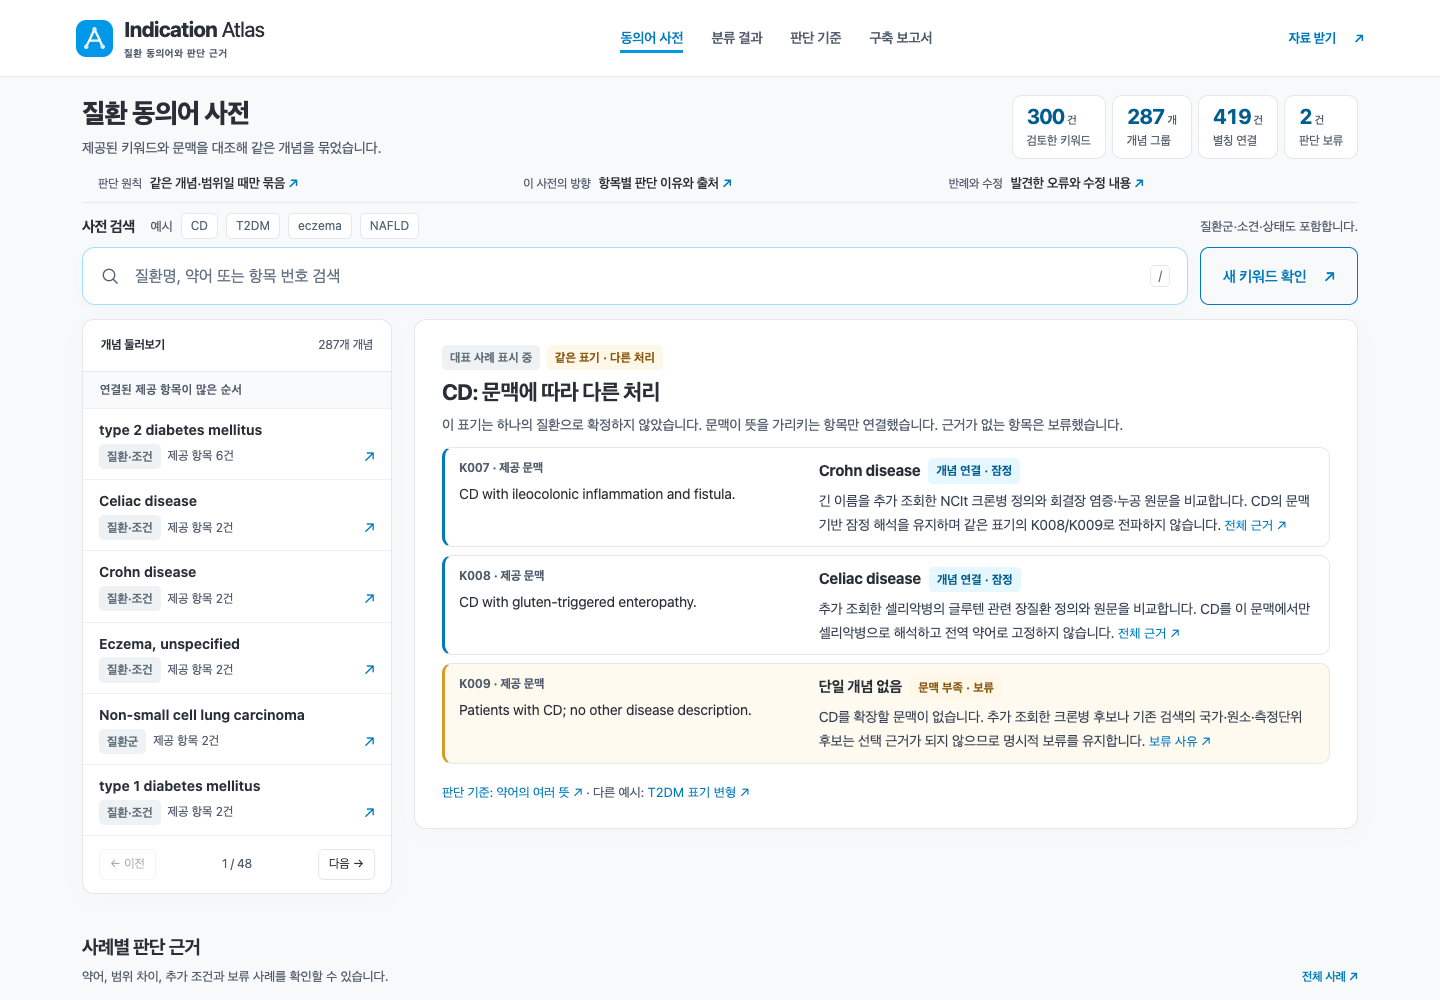
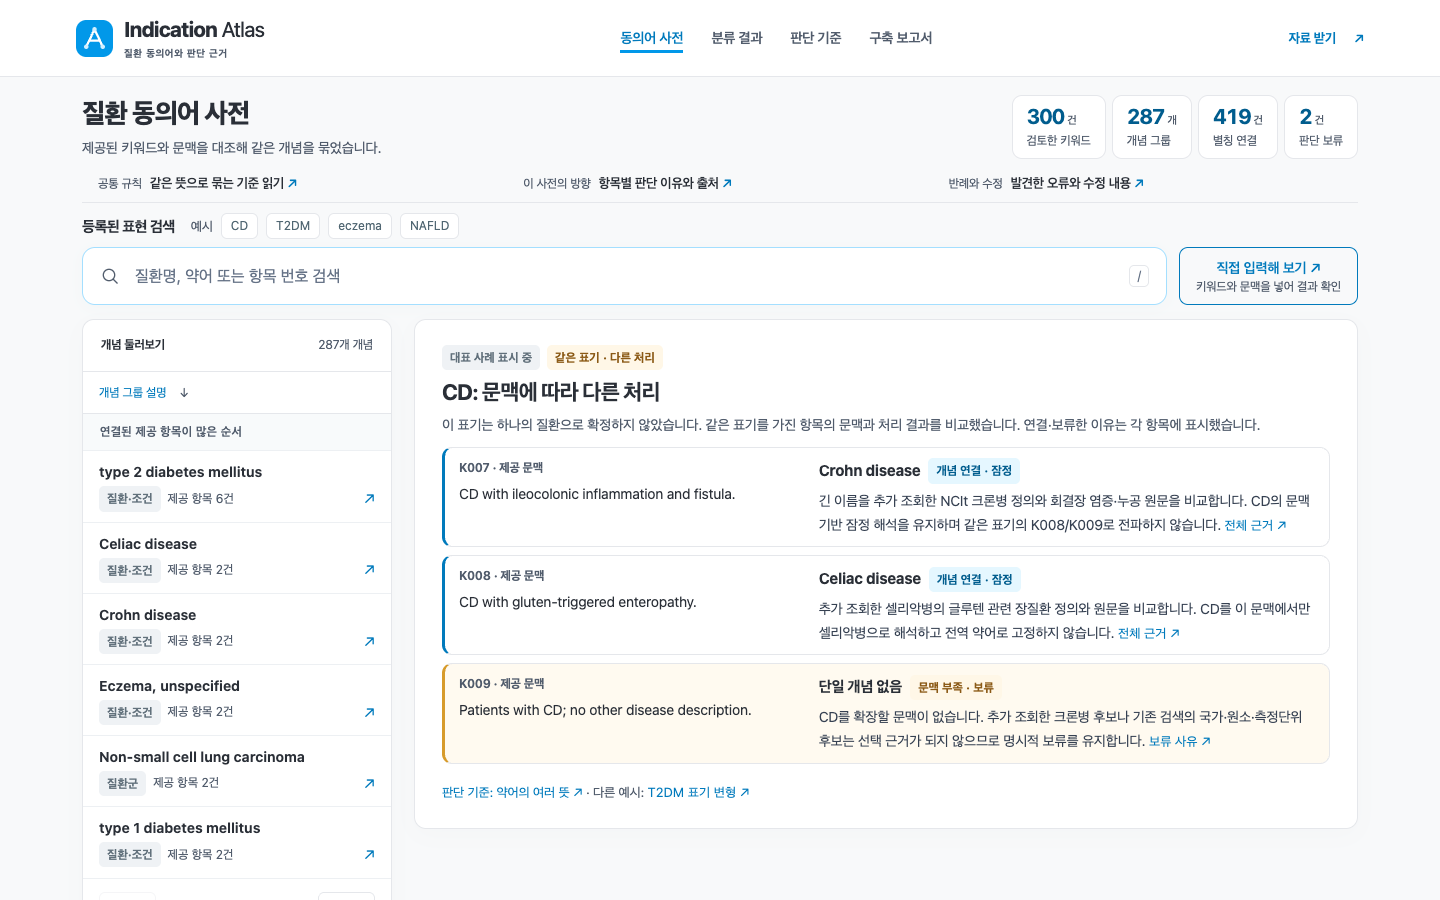
Explain home search, direct input and judgment examples

diff --git a/app/app.js b/app/app.js
@@ -104,14 +104,14 @@ function dictionaryPage() {
     <section class="home-head" aria-labelledby="hero-title"><div class="home-title"><h1 id="hero-title">질환 동의어 사전</h1><p>제공된 키워드와 문맥을 대조해 같은 개념을 묶었습니다.</p></div>
     <div class="stats" aria-label="사전 요약">${[['검토한 키워드',m.records,'건','#records','전체 분류 결과'],['개념 그룹',m.concepts,'개','#dictionary?view=concepts','개념 목록'],['별칭 연결',m.aliases,'건','#aliases','별칭 목록'],['판단 보류',m.holds,'건','#records?decision=HOLD','보류 사유 확인']].map(([label,n,u,href,action])=>`<a class="stat" href="${href}"${href.includes('view=concepts')?' data-concept-list':''} aria-label="${label} ${n}${u} · ${action}"><span class="stat-value">${n}<small>${u}</small></span><span class="stat-label">${label}</span></a>`).join('')}</div></section>
     <section class="key-points" aria-label="핵심 포인트">${[
-      ['판단 원칙','같은 개념·범위일 때만 묶음','#cases'],
+      ['공통 규칙','같은 뜻으로 묶는 기준 읽기','#cases'],
       ['이 사전의 방향','항목별 판단 이유와 출처','#materials/methodology'],
       ['반례와 수정','발견한 오류와 수정 내용','#materials/methodology?section=counterexamples']
     ].map(([label,title,href])=>`<a class="key-point" href="${href}"><span>${label}</span><strong>${title} <span aria-hidden="true">↗</span></strong></a>`).join('')}</section>
-    <section id="concept-explorer" aria-labelledby="search-heading"><div class="search-heading-row"><h2 id="search-heading" tabindex="-1">사전 검색</h2><div class="examples"><span>예시</span>${['CD','T2DM','eczema','NAFLD'].map(q=>`<button class="example-chip" data-query="${q}">${q}</button>`).join('')}<span class="scope-note">질환군·소견·상태도 포함합니다.</span></div></div>
-    <div class="search-toolbar"><label class="search-box">${icon}<input id="dictionary-search" type="search" autocomplete="off" aria-label="질환명·약어·항목 번호 검색" placeholder="질환명, 약어 또는 항목 번호 검색"><span class="search-key" aria-hidden="true">/</span></label><a class="new-keyword-link" href="#analyze">새 키워드 확인 <span aria-hidden="true">↗</span></a></div>
+    <section id="concept-explorer" aria-labelledby="search-heading"><div class="search-heading-row"><h2 id="search-heading" tabindex="-1">등록된 표현 검색</h2><div class="examples"><span>예시</span>${['CD','T2DM','eczema','NAFLD'].map(q=>`<button class="example-chip" data-query="${q}">${q}</button>`).join('')}</div></div>
+    <div class="search-toolbar"><label class="search-box">${icon}<input id="dictionary-search" type="search" autocomplete="off" aria-label="질환명·약어·항목 번호 검색" placeholder="질환명, 약어 또는 항목 번호 검색"><span class="search-key" aria-hidden="true">/</span></label><a class="new-keyword-link" href="#analyze" aria-label="직접 입력해 보기" aria-describedby="new-input-description"><span class="new-keyword-title">직접 입력해 보기 <span aria-hidden="true">↗</span></span><span class="new-keyword-description" id="new-input-description">키워드와 문맥을 넣어 결과 확인</span></a></div>
     <div class="explorer"><div id="results" class="panel result-panel"></div><div id="dictionary-detail" class="panel detail"></div></div></section>
-    <section class="featured-section"><div class="section-heading"><div><h2>사례별 판단 근거</h2><p>약어, 범위 차이, 추가 조건과 보류 사례를 확인할 수 있습니다.</p></div><a href="#cases/examples">전체 사례 ↗</a></div><div class="featured-grid">${featureCards(['cd','eczema','nsclc','masld','conflict'].map(id=>data.stories.find(s=>s.id===id)))}</div></section>
+    <section class="featured-section"><div class="section-heading"><div><h2>사례로 보는 분류 과정</h2><p>공통 규칙을 약어, 범위 차이, 추가 조건과 입력 충돌에 적용한 사례입니다.</p></div><a href="#cases/examples">전체 사례 ↗</a></div><div class="featured-grid">${featureCards(['cd','eczema','nsclc','masld','conflict'].map(id=>data.stories.find(s=>s.id===id)))}</div></section>
   </div>`;
   const input=$('#dictionary-search'); input.value=route.params.get('q') ?? '';
   selectedKey=route.params.get('concept'); searchPage=0;
@@ -153,6 +153,7 @@ function updateSearch({autoSelect=true}={}) {
   }).join('');
   $('#results').classList.toggle('has-selection',!!selectedKey);
   $('#results').innerHTML=`<div class="result-heading"><b>${normalize(q)?'검색 결과':'개념 둘러보기'}</b><span>${keys.length}개 개념</span></div>
+    ${!normalize(q)?'<details class="catalog-scope"><summary>개념 그룹 설명</summary><p>같은 뜻으로 판단한 표현을 하나의 그룹으로 묶었습니다. 질환뿐 아니라 질환군·소견·상태도 포함합니다.</p></details>':''}
     ${result.exactKeys.length>1?`<div class="hold-result"><b>문맥 확인이 필요합니다.</b><br>같은 표기가 ${result.exactKeys.length}개 개념에 연결됩니다.</div>`:''}
     ${items || (result.holds.length || result.expressions.length ? '<div class="empty-state">해당 항목은 단일 개념으로 연결하지 않았습니다.<br>아래에서 원문과 처리 이유를 확인하세요.</div>' : '<div class="empty-state">등록된 이름을 찾지 못했습니다.<br>긴 질환명이나 다른 표기로 검색해 보세요.</div>')}
     ${[...result.holds,...result.expressions].map(r=>`<div class="hold-result">${decisionBadge(r)}<p>${esc(r.source_id)} · ${esc(r.keyword)}</p><button data-open-record="${r.source_id}">원문과 판단 이유 보기 ↗</button></div>`).join('')}

diff --git a/app/styles.css b/app/styles.css
@@ -526,7 +526,6 @@ summary>.badge { flex-shrink:0; }
 .new-keyword-link:hover { background:var(--tint); text-decoration:none; }
 .home-page .section-heading h2 { font-size:19px; }
 .home-page .examples { font-size:13px; gap:8px; margin-bottom:20px; }
-.scope-note { margin-left:auto; }
 .home-page .explorer { grid-template-columns:310px minmax(0,1fr); }
 .home-page .result-meta { font-size:12px; gap:7px; }
 .result-item.selected:before { background:var(--brand); }
@@ -587,7 +586,6 @@ summary>.badge { flex-shrink:0; }
   .search-toolbar { display:grid; grid-template-columns:1fr; gap:8px; }
   .new-keyword-link { min-height:42px; padding:6px 15px; font-size:14px; }
   .home-page .examples { gap:6px; font-size:12px; }
-  .scope-note { flex-basis:100%; margin:2px 0 0; }
   .home-page .explorer { grid-template-columns:1fr; }
   .home-page .result-meta { font-size:12px; }
   .detail-title h2 { font-size:22px; }
@@ -622,7 +620,6 @@ summary>.badge { flex-shrink:0; }
 .search-heading-row { display:flex; align-items:center; gap:16px; margin:0 0 8px; flex-wrap:wrap; }
 .search-heading-row h2 { font-size:15px; margin:0; }
 .search-heading-row .examples { margin:0; flex:1; }
-.search-heading-row .scope-note { margin-left:auto; }
 .home-page .explorer { margin-top:14px; }
 .home-page .result-item { padding:10px 16px; }
 .home-page .result-meta { margin-top:3px; }
@@ -648,7 +645,6 @@ summary>.badge { flex-shrink:0; }
   .home-page .stat-value { font-size:18px; }
   .home-page .stat-label { font-size:11px; }
   .home-page .key-point,.home-page .key-point:first-child { display:grid; grid-template-columns:95px minmax(0,1fr); padding:4px 0; }
-  .search-heading-row .scope-note { display:none; }
   .home-page .explorer.featured .detail { order:-1; }
   .ambiguity-row { grid-template-columns:1fr; gap:8px; }
   .ambiguity-title { font-size:19px; }
@@ -666,4 +662,18 @@ summary>.badge { flex-shrink:0; }
 .home-page .stat,.home-page .stat:first-child,.home-page .stat:nth-child(2),.home-page .stat:nth-child(3),.home-page .stat:last-child { border-radius:10px; border:1px solid var(--line); }
 @media (max-width:760px) {
   .home-page .key-point,.home-page .key-point:first-child { padding:4px 0; }
+}
+
+/* Explain the two entry points, and keep the scope note with the concept list. */
+.new-keyword-link { flex-direction:column; gap:0; padding:5px 16px; }
+.new-keyword-title { font-size:14px; line-height:1.5; }
+.new-keyword-description { font-size:12px; line-height:1.5; font-weight:400; color:var(--muted); }
+.catalog-scope { margin:0; padding:7px 16px; border:0; border-bottom:1px solid var(--line); border-radius:0; }
+.catalog-scope>summary { display:inline-flex; padding:3px 0; color:var(--accent); font-size:12px; }
+.catalog-scope>summary:after { content:"↓"; margin-left:5px; }
+.catalog-scope[open]>summary:after { content:"↑"; }
+.catalog-scope p { margin:5px 0 3px; font-size:13px; color:var(--muted); line-height:1.7; }
+@media(max-width:760px) {
+  .search-heading-row { display:block; }
+  .search-heading-row .examples { margin:7px 0 0; }
 }

diff --git a/tests/browser_smoke.py b/tests/browser_smoke.py
@@ -15,11 +15,21 @@ def run(base_url,browser_executable=None,output=None):
         page=browser.new_page(viewport={'width':1440,'height':1050})
         errors=[];console_errors=[];page.on('pageerror',lambda e:errors.append(str(e)));page.on('console',lambda m:console_errors.append(m.text) if m.type=='error' else None)
         page.goto(base_url,wait_until='networkidle')
-        expect(page.get_by_role('heading',name='사전 검색')).to_be_visible()
+        expect(page.get_by_role('heading',name='등록된 표현 검색')).to_be_visible()
         results.append('Desktop entry and snapshot counts')
         expect(page.locator('#hero-title')).to_have_text('질환 동의어 사전')
         assert page.locator('.stats .stat-value').evaluate_all('(els)=>els.map(e=>e.textContent.replace(/[^0-9]/g,""))')==['300','287','419','2']
         assert page.locator('#dictionary-search').bounding_box()['y']+page.locator('#dictionary-search').bounding_box()['height']<1000
+        expect(page.locator('.search-heading-row')).not_to_contain_text('질환군')
+        expect(page.locator('.catalog-scope')).not_to_have_attribute('open','')
+        page.locator('.catalog-scope summary').click()
+        expect(page.locator('.catalog-scope p')).to_be_visible()
+        expect(page.locator('.catalog-scope p')).to_contain_text('질환군·소견·상태')
+        page.locator('.catalog-scope summary').click()
+        expect(page.get_by_role('link',name='직접 입력해 보기',exact=True)).to_have_attribute('href','#analyze')
+        expect(page.locator('#new-input-description')).to_have_text('키워드와 문맥을 넣어 결과 확인')
+        expect(page.locator('.key-point').first).to_contain_text('공통 규칙')
+        expect(page.locator('.featured-section h2')).to_have_text('사례로 보는 분류 과정')
         # First screen: the CD case shows each context, the decision and its reason, with the held row.
         expect(page.locator('#dictionary-detail')).to_contain_text('대표 사례 표시 중')
         expect(page.locator('#dictionary-detail .ambiguity-title')).to_contain_text('CD')
@@ -192,7 +202,7 @@ def run(base_url,browser_executable=None,output=None):
         assert not normalization_errors,normalization_errors
         results.append('Browser normalization equals all reviewed alias keys')
         page.goto(base_url,wait_until='networkidle')
-        page.get_by_role('link',name='새 키워드 확인',exact=False).click()
+        page.get_by_role('link',name='직접 입력해 보기',exact=True).click()
         expect(page.locator('#analyzer-decision')).to_have_text('약어 의미 보류')
         page.get_by_role('button',name='크론병으로 정의',exact=True).click()
         expect(page.locator('.runtime-concepts')).to_contain_text('MONDO:0005011')

diff --git a/docs/RUN.md b/docs/RUN.md
@@ -9,7 +9,7 @@
 1. **동의어 사전:** 대표 예시를 살펴보거나 CD·T2DM·PASC·NAFLD를 검색합니다. 숫자 요약을 누르면 개념·별칭·보류 목록으로 이동합니다.
 2. **분류 결과:** 300개 키워드를 검색하고 처리 상태로 거릅니다. 항목을 선택하면 제공 문맥과 판단 이유, 후보 정의와 출처가 나옵니다.
 3. **판단 기준:** 공통 규칙 G01–G12를 읽고 사례별 검토에서 약어·범위·추가 조건·보류 사례를 비교합니다.
-4. **새 키워드 확인:** 사전 검색 옆 버튼으로 엽니다. 키워드와 문맥을 입력하거나 여러 줄을 한 번에 처리할 수 있습니다. 미등록 표현은 MONDO·NCIt·MeSH 후보와 비교하고, 각 결과를 CSV·JSON으로 내려받을 수 있습니다.
+4. **직접 입력해 보기:** 등록된 표현 검색 옆 버튼으로 엽니다. 키워드와 문맥을 입력하거나 여러 줄을 한 번에 처리할 수 있습니다. 미등록 표현은 MONDO·NCIt·MeSH 후보와 비교하고, 각 결과를 CSV·JSON으로 내려받을 수 있습니다.
 5. **구축 보고서:** 구축 과정의 7단계, 서비스 조사, 검증과 한계, 파일과 실행 방법을 확인합니다.
 
 ## 메뉴와 자료 위치

diff --git a/START_HERE.md b/START_HERE.md
@@ -20,7 +20,7 @@
 
 [판단 기준](https://indication-atlas.netlify.app/#cases)에서 G01–G12를, [사례별 검토](https://indication-atlas.netlify.app/#cases/examples)에서 실제 판단과 개념 비교를 제공합니다.
 
-[새 키워드 확인](https://indication-atlas.netlify.app/#analyze)은 사전 검색 옆 버튼으로 엽니다. 등록된 표현·명시적 약어 정의·일부 조건 패턴을 처리하고, 미등록 표현은 외부 후보와 비교할 수 있습니다. 환자의 진단·적격성은 판정하지 않습니다.
+[새 키워드 확인](https://indication-atlas.netlify.app/#analyze)은 홈의 ‘직접 입력해 보기’ 버튼으로 엽니다. 등록된 표현·명시적 약어 정의·일부 조건 패턴을 처리하고, 미등록 표현은 외부 후보와 비교할 수 있습니다. 환자의 진단·적격성은 판정하지 않습니다.
 
 ## 실행
 
